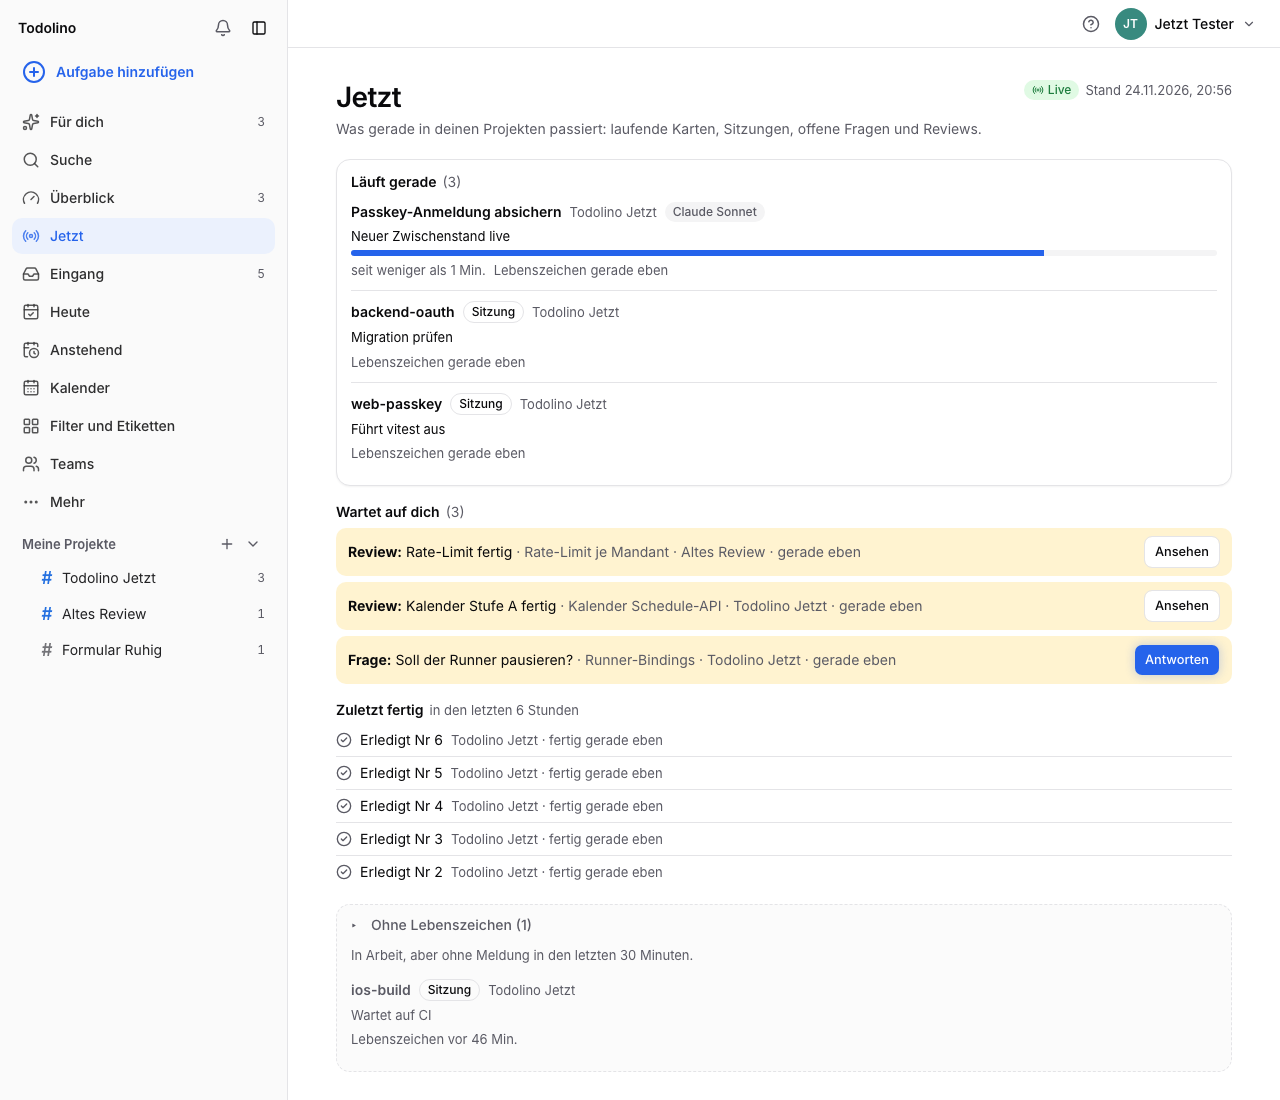
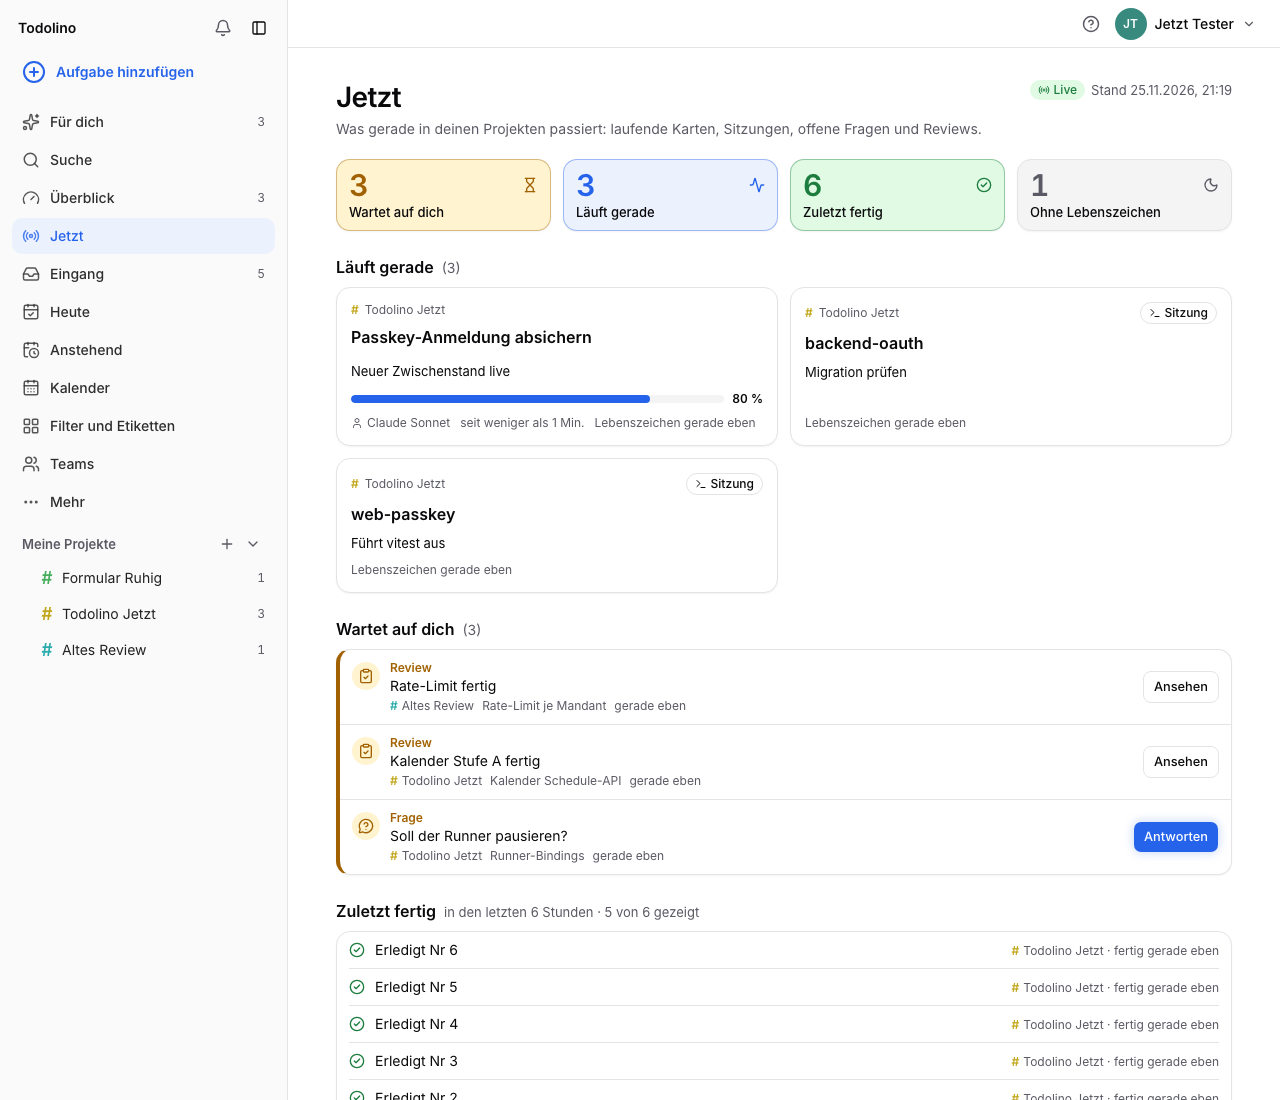
Karte B0CF5F73: Textabstände, Bilder aufgeklappt, WebKit-Lauf (now-redesign, overview-pages in drei Browsern rc 0; now, build-status, for-you Chromium rc 0)

diff --git a/web/e2e/now-redesign.spec.ts b/web/e2e/now-redesign.spec.ts
@@ -16,6 +16,8 @@ const RUNNING = NOW_SEED.runningTasks + NOW_SEED.sessions;
 const DESKTOP = { width: 1280, height: 900 };
 
 test.describe.configure({ mode: 'serial' });
+// The overview answer is rewritten with `page.route`; WebKit does not route requests of a page under a service worker.
+test.use({ serviceWorkers: 'block' });
 let page: Page;
 let helper: APIRequestContext;
 let ids: NowIds;
@@ -68,6 +70,17 @@ test('pictures of the seeded page: light and dark, desktop, phone and 320 px', a
 			await expect(page.getByTestId('now-project').first()).toBeVisible();
 			await page.waitForTimeout(500);
 			await page.screenshot({ path: `${SHOTS}/${PREFIX}-${name}-${suffix}.png`, fullPage: true });
+			if (PREFIX === 'vorher' || width === 320) continue;
+			// Everything the redesign folds away, unfolded: all waiting entries, no life sign, one project.
+			await block().getByTestId('now-waiting-toggle').click();
+			await block().getByTestId('now-silent').locator('summary').click();
+			await openProject(ids.projects.todolino);
+			await page.evaluate(() => {
+				(document.activeElement as HTMLElement | null)?.blur();
+				window.scrollTo(0, 0);
+			});
+			await page.waitForTimeout(500);
+			await page.screenshot({ path: `${SHOTS}/${PREFIX}-offen-${name}-${suffix}.png`, fullPage: true });
 		}
 	}
 	await page.emulateMedia({ colorScheme: null, reducedMotion: null });
@@ -95,7 +108,7 @@ test('four tiles show the counted numbers: four in a row on wide screens, two by
 	await page.setViewportSize(DESKTOP);
 	// The list under "Zuletzt fertig" shows five of the six counted cards and says so.
 	await expect(block().getByTestId('now-done-item')).toHaveCount(5);
-	await expect(block().getByTestId('now-done')).toContainText('5 von 6');
+	await expect(block().getByTestId('now-done')).toContainText('in den letzten 6 Stunden · 5 von 6 gezeigt');
 });
 
 test('a tile leads to its section by mouse and keyboard; "Ohne Lebenszeichen" opens', async () => {
@@ -264,6 +277,7 @@ test('inside a project: builds per build, five events first, waiting entries as 
 	// The server delivers at most five files per project; the page says so instead of claiming a total.
 	await expect(todolino.getByTestId('now-builds')).toContainText('neuesten 5 Dateien');
 
+	await expect(todolino.getByTestId('now-running-item')).toContainText(/60 % · .+ · „Rückfall geschrieben/);
 	const events = todolino.getByTestId('now-event');
 	await expect(events).toHaveCount(5);
 	const more = todolino.getByTestId('now-events-toggle');

diff --git a/web/src/lib/components/now/NowBlock.svelte b/web/src/lib/components/now/NowBlock.svelte
@@ -20,6 +20,12 @@
 	const activeKey = (item: NowActive) => `${item.kind}:${item.taskID ?? item.projectID + item.title}`;
 	const heading = 'focus-visible:ring-ring/50 mb-2 flex scroll-mt-16 flex-wrap items-baseline gap-x-2 rounded text-base font-semibold outline-none focus-visible:ring-2';
 	let root = $state<HTMLElement>();
+	/** The list shows five at most; the tile counts all cards of the window, so the difference is said here. */
+	const doneHint = $derived(
+		b.counts.recentlyDone > b.recentlyDone.length
+			? `${t('now.block.doneHint')} · ${t('now.block.doneShown', { shown: b.recentlyDone.length, count: b.counts.recentlyDone })}`
+			: t('now.block.doneHint')
+	);
 
 	/** A tile moves focus and view to its section; "Ohne Lebenszeichen" opens first. */
 	function jump(id: NowTileID) {
@@ -64,7 +70,7 @@
 	{#if b.counts.recentlyDone > 0 || b.recentlyDone.length > 0}
 		<section aria-labelledby="nb-done" data-testid="now-done">
 			<h3 id="nb-done" class={heading} tabindex="-1" data-jump="done">
-				{t('now.block.done')}<span class="text-muted-foreground text-[13px] font-normal">{t('now.block.doneHint')}{#if b.counts.recentlyDone > b.recentlyDone.length} · {t('now.block.doneShown', { shown: b.recentlyDone.length, count: b.counts.recentlyDone })}{/if}</span>
+				{t('now.block.done')}<span class="text-muted-foreground text-[13px] font-normal">{doneHint}</span>
 			</h3>
 			<ul class="bg-card shadow-card divide-y rounded-xl border px-3">
 				{#each uniqueKeys(b.recentlyDone, (d) => d.taskID) as { item: d, key } (key)}

diff --git a/web/src/lib/components/now/NowProject.svelte b/web/src/lib/components/now/NowProject.svelte
@@ -76,7 +76,7 @@
 								</div>
 							{/if}
 							<p class="text-muted-foreground line-clamp-3 text-[13px] [overflow-wrap:anywhere]">
-								{#if pct !== null}{t('now.percent', { percent: pct })} · {/if}{#if task.lastProgress}{@render time(task.lastProgress.at)} · „{previewText(task.lastProgress.note)}“{:else}{t('now.noNote')}{/if}
+								{#if pct !== null}{t('now.percent', { percent: pct }) + ' · '}{/if}{#if task.lastProgress}{@render time(task.lastProgress.at)}{' · „' + previewText(task.lastProgress.note) + '“'}{:else}{t('now.noNote')}{/if}
 							</p>
 						</li>
 					{/each}
